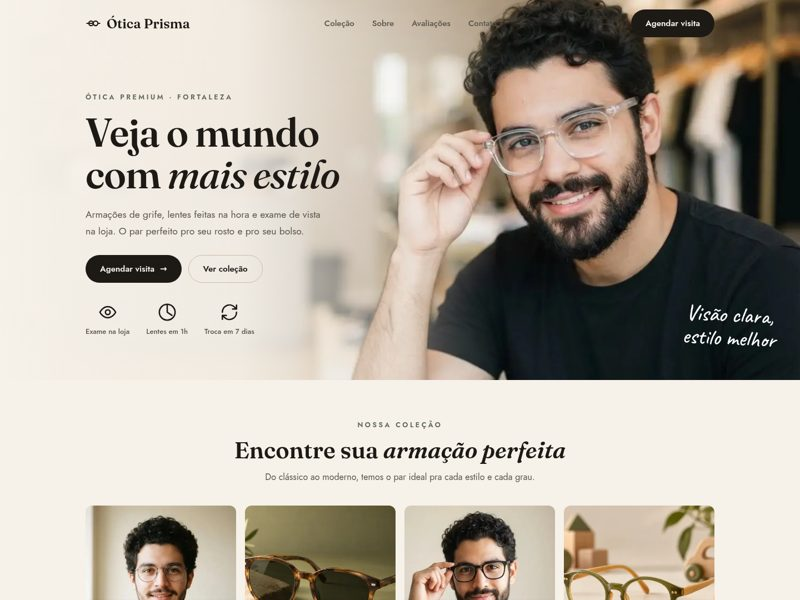
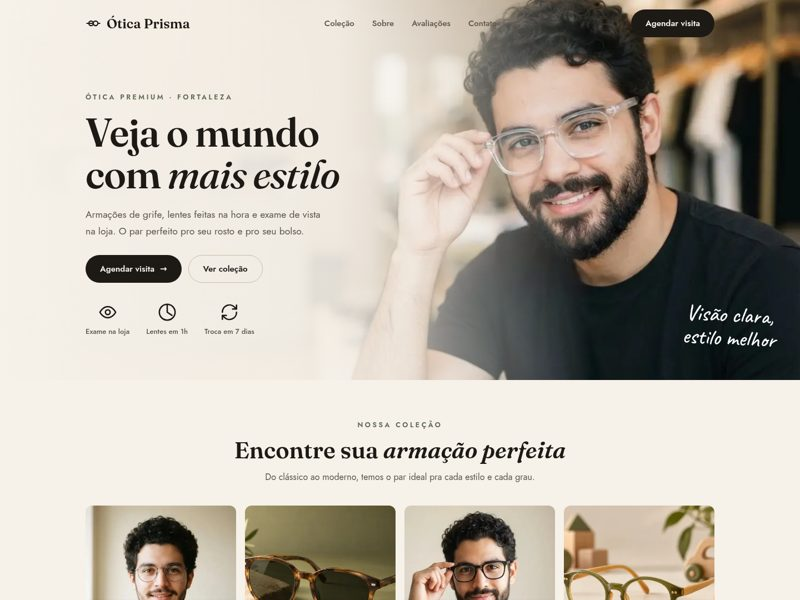
otica-prisma: hero mobile empilhado, capas

Changed region(s): [[0.3125, 0.0, 0.7188, 0.66]]

diff --git a/src/components/models/OpticFold.tsx b/src/components/models/OpticFold.tsx
@@ -71,7 +71,7 @@ export function OpticFold({ client }: { client?: { name?: string; whatsapp?: str
         .of .btn.o{background:transparent;color:${INK};border:1.5px solid #c9bda9;box-shadow:none}
         .of .btn.o:hover{border-color:${INK}}
         .of .burger{display:none;background:none;border:0;width:44px;height:44px;cursor:pointer}
-        .of .hero{position:relative;overflow:hidden;background:${BG}}.of .hero header{position:relative;z-index:2}.of .hero section{position:static}.of .herogrid>div:first-child{position:relative;z-index:2}.of .hero::after{content:"";position:absolute;inset:0;z-index:1;background:linear-gradient(90deg,${BG} 0%,${BG}e6 30%,${BG}00 62%);pointer-events:none}
+        .of .hero{position:relative;overflow:hidden;background:${BG}}.of .hero header{position:relative;z-index:2}.of .hero section{position:static}.of .herogrid>div:first-child{position:relative;z-index:2}.of .hero::after{content:"";position:absolute;inset:0;z-index:1;background:linear-gradient(90deg,${BG} 0%,${BG}e6 42%,${BG}00 74%);pointer-events:none}
         .of .herogrid{display:grid;grid-template-columns:minmax(0,560px) 1fr;align-items:center;gap:20px;min-height:600px}
         .of .himg{position:absolute;left:0;right:0;top:0;bottom:0;z-index:0}
         .of .himg .arch{display:none}
@@ -144,7 +144,7 @@ export function OpticFold({ client }: { client?: { name?: string; whatsapp?: str
           .of .links,.of .navbtn{display:none}.of .burger{display:block}.of .nav{height:68px}.of .logo{font-size:19px;white-space:nowrap}
           .of .cta-m{display:inline-flex;min-height:44px;padding:0 18px;margin-left:auto;margin-right:4px;font-size:14px}
           .of .herogrid{grid-template-columns:1fr;min-height:0;gap:0;padding-top:4px}
-          .of .himg{order:2;min-height:430px;margin-top:26px}.of .himg .arch{inset:10% 6% 0}
+          .of .hero::after{display:none}.of .himg{position:relative;left:auto;right:auto;top:auto;bottom:auto;order:2;height:430px;margin:26px -24px 0}.of .himg .arch{inset:10% 6% 0}
           .of .himg .script{font-size:26px;right:3%;bottom:4%}
           .of .feats{gap:18px}
           .of .grid4{grid-template-columns:1fr 1fr;gap:12px}.of .band{grid-template-columns:1fr 1fr}.of .band .in{grid-column:1/-1;order:-1;align-items:center;text-align:center}
